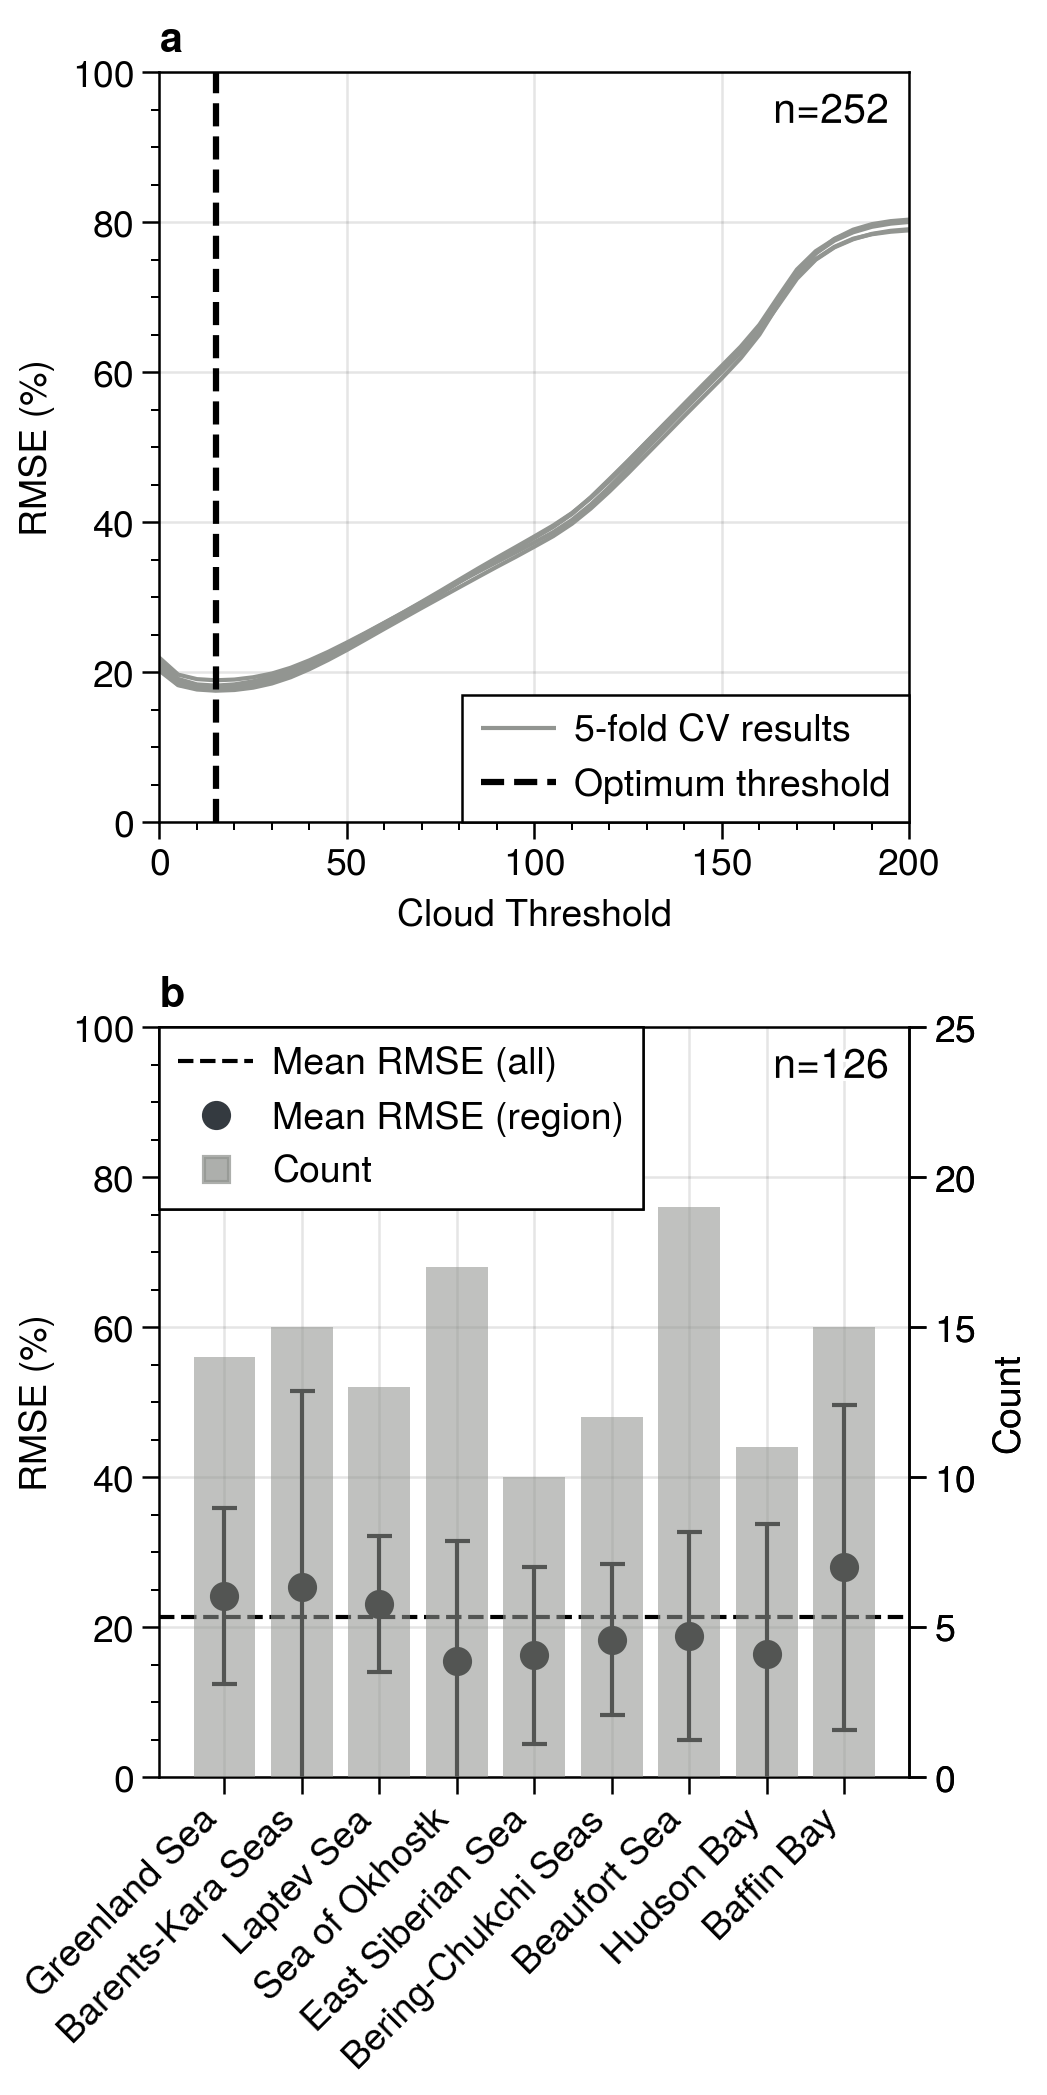
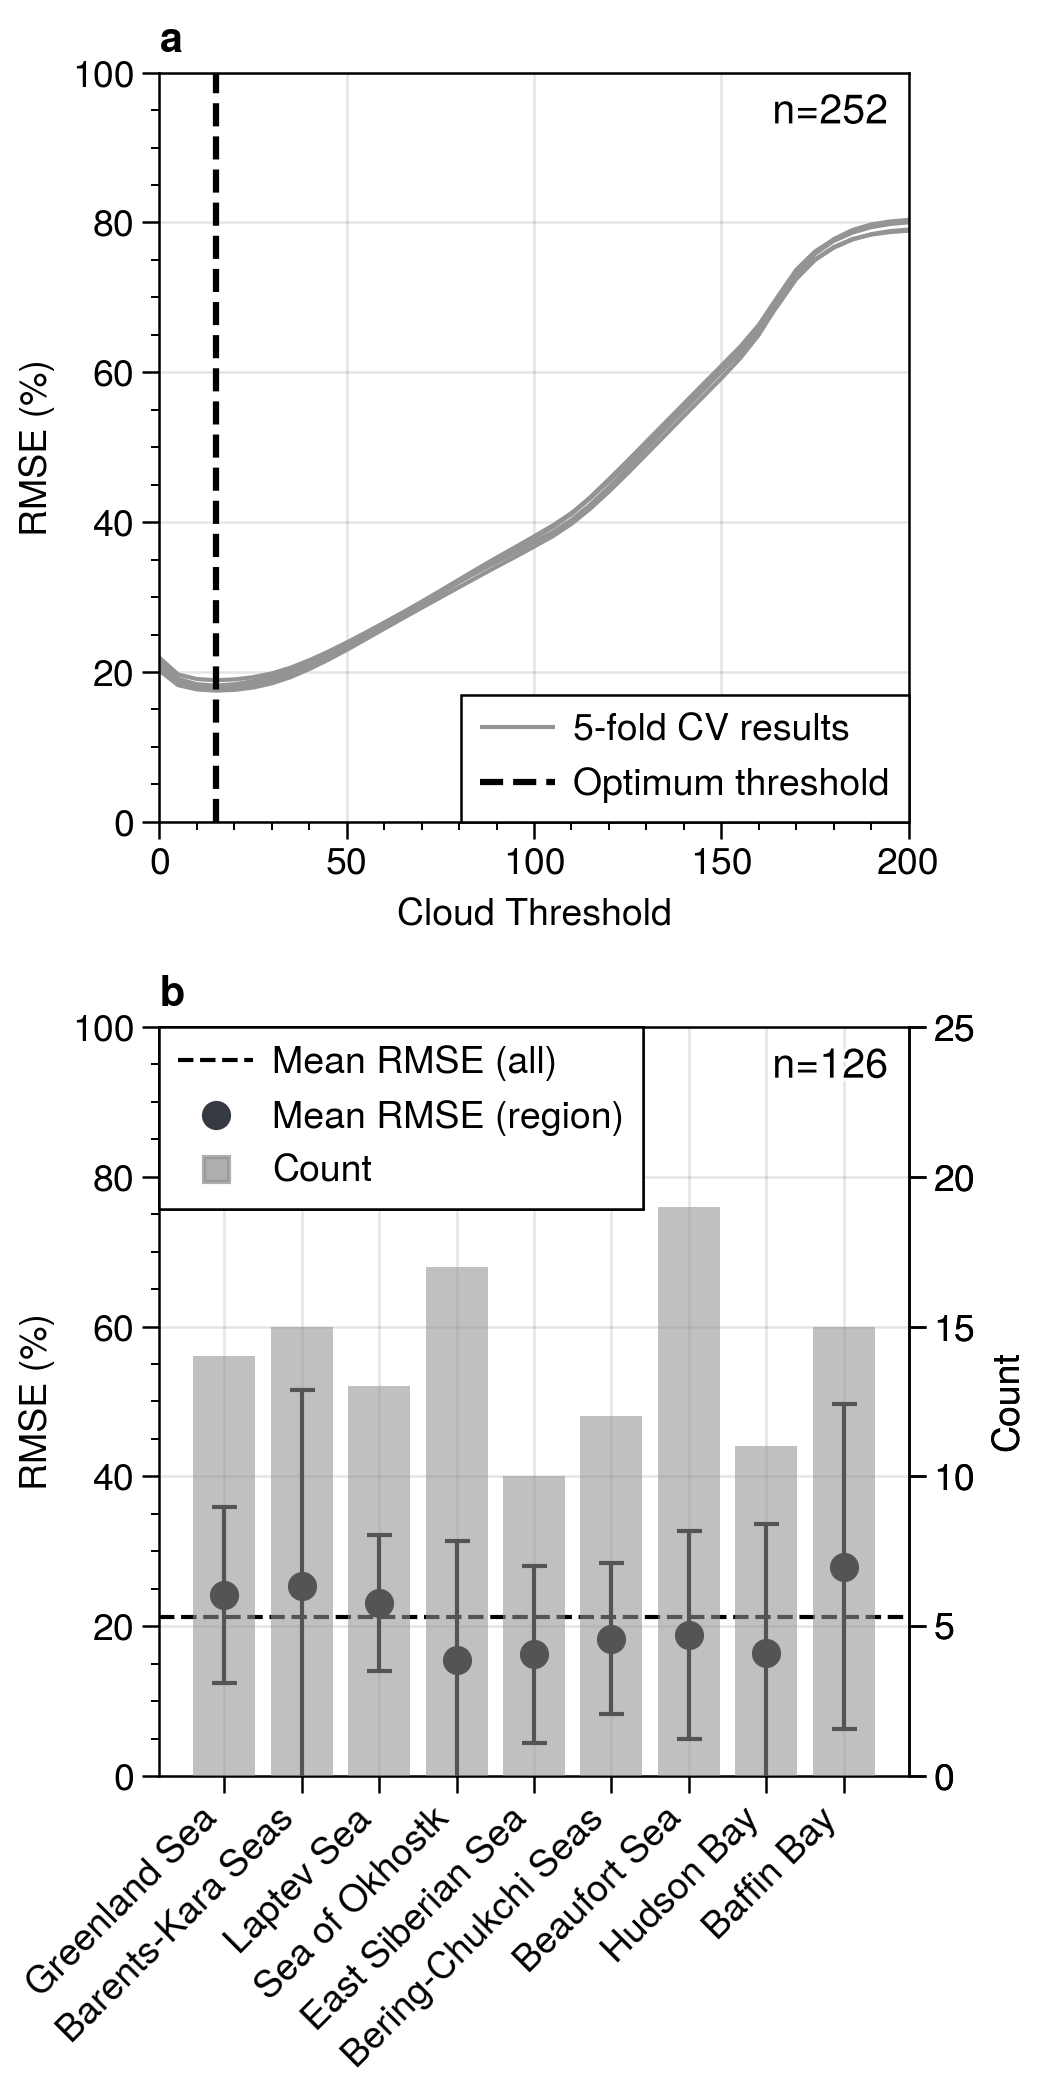
Saving MSE method for cloud mask cal/val

diff --git a/scripts/cloudmask_optimization_modis_MSE_method.py b/scripts/cloudmask_optimization_modis_MSE_method.py
@@ -1,0 +1,265 @@
+import numpy as np
+import os
+import pandas as pd
+import proplot as pplt
+import rasterio as rio
+from rasterio.plot import reshape_as_image
+from sklearn.model_selection import KFold
+from scipy.interpolate import interp1d
+
+# preliminaries
+region_order = ['greenland_sea', 'barents_kara_seas', 'laptev_sea', 'sea_of_okhostk',
+                'east_siberian_sea', 'bering_chukchi_seas', 'beaufort_sea', 'hudson_bay', 'baffin_bay']
+
+title_case = {'baffin_bay': 'Baffin Bay',
+              'barents_kara_seas': 'Barents-Kara Seas',
+              'beaufort_sea': 'Beaufort Sea',
+              'bering_chukchi_seas': 'Bering-Chukchi Seas',
+              'east_siberian_sea': 'East Siberian Sea',
+              'greenland_sea': 'Greenland Sea',
+              'hudson_bay': 'Hudson Bay',
+              'laptev_sea': 'Laptev Sea',
+              'sea_of_okhostk': 'Sea of Okhostk'}
+
+# load the list of cloud clearing evaluation cases
+dataloc = '../../ice_floe_validation_dataset/'
+df = pd.read_csv(dataloc + '/data/validation_dataset/validation_dataset.csv')
+df['case_number'] = [str(cn).zfill(3) for cn in df['case_number']]
+df.groupby('region').count()
+df['start_date'] = pd.to_datetime(df['start_date'].values)
+df.index = [cn + '_' + sat for cn, sat in zip(df.case_number, df.satellite)]
+
+# Divide into testing and training datasets
+training_idx = df.sample(frac=2/3, random_state=97234).sort_index().index
+df['training'] = False
+df.loc[training_idx, 'training'] = True
+
+def fname(case_data, imtype='labeled_floes'):
+    """Generates filenames from rows in the overview table. imtype can be 'labeled_floes', 
+    'binary_floes', 'binary_landfast', or 'binary_landmask', 'truecolor', or 'falsecolor'.
+    The imtype determines whether a 'png' or 'tiff' is returned.
+    """
+
+    cn = case_data['case_number']
+    date = pd.to_datetime(case_data['start_date']).strftime('%Y%m%d')
+    region = case_data['region']
+    sat = case_data['satellite']
+    if 'binary' in imtype:
+        return  '-'.join([cn, region, date, sat, imtype + '.png'])
+        
+    elif imtype in ['truecolor', 'falsecolor', 'cloudfraction', 'labeled_floes',]:
+        prefix = '-'.join([cn, region, '100km', date])
+        return '.'.join([prefix, sat, imtype, '250m', 'tiff'])
+
+    elif imtype in ['seaice', 'landmask',]:
+        prefix = '-'.join([cn, region, '100km', date])
+        return '.'.join([prefix, 'masie', imtype, '250m', 'tiff'])        
+
+# Load raster data and masks
+fc_dataloc = dataloc + 'data/modis/falsecolor/'
+tc_dataloc = dataloc + 'data/modis/truecolor/'
+cl_dataloc = dataloc + 'data/modis/cloudfraction/'
+
+lm_dataloc = dataloc + 'data/validation_dataset/binary_landmask/'
+lb_dataloc = dataloc + 'data/validation_dataset/binary_floes/'
+lf_dataloc = dataloc + 'data/validation_dataset/binary_landfast/'
+
+masie_ice_loc = dataloc + 'data/masie/seaice/'
+masie_land_loc = dataloc + 'data/masie/landmask/'
+
+tc_images = {}
+fc_images = {}
+cl_images = {}
+lb_images = {}
+lf_images = {}
+lm_images = {}
+mi_images = {}
+ml_images = {}
+
+missing = []
+for row, data in df.iterrows():
+    for datadir, imtype, data_dict in zip([tc_dataloc, fc_dataloc, cl_dataloc,
+                                           lb_dataloc, lf_dataloc, lm_dataloc,
+                                           masie_ice_loc, masie_land_loc],
+                                          ['truecolor', 'falsecolor', 'cloudfraction',
+                                           'binary_floes', 'binary_landfast', 'binary_landmask',
+                                           'seaice', 'landmask'],
+                                          [tc_images, fc_images, cl_images,
+                                           lb_images, lf_images, lm_images,
+                                           mi_images, ml_images]):
+        try:
+            with rio.open(datadir + fname(df.loc[row,:], imtype)) as im:
+                data_dict[row] = im.read()
+        except:
+            if imtype in ['falsecolor', 'cloudfraction', 'landmask']:
+                print('Couldn\'t read', fname(df.loc[row,:], imtype), imtype)
+            elif imtype == 'binary_floes':
+                if df.loc[row, 'visible_floes'] == 'yes':
+                    missing.append(fname(df.loc[row,:], imtype))
+            elif imtype == 'binary_landfast':
+                if df.loc[row, 'visible_landfast_ice'] == 'yes':
+                    missing.append(fname(df.loc[row,:], imtype))
+            elif imtype in ['seaice', 'landmask']: # masie images
+                missing.append(fname(df.loc[row,:], imtype))
+
+# Load the numeric cloud fraction data
+cf_images = {}
+cases = [c for c in cl_images]
+cases.sort()
+
+# Make the index of the df a unique case label
+df.index = [x.case_number + '_' + x.satellite for row, x in df.iterrows()]
+
+# Loading from file
+cf_images = {}
+for case in df.index:
+    file = fname(df.loc[case], 'binary_landmask').replace('binary_landmask.png', 'cloudfraction.csv')
+    try:
+        cf_images[case] = pd.read_csv("../data/cloudfraction_numeric/" + file, index_col=0) 
+        cf_images[case].index = cf_images[case].index.astype(int)
+        cf_images[case].columns = cf_images[case].columns.astype(int)
+    except:
+        print(case)
+
+df['cloud_fraction_modis'] = np.nan
+for case in cf_images:
+    df.loc[case, 'cloud_fraction_modis'] = np.mean(cf_images[case]/100)
+
+def get_binned_ift_est(fc, tc_threshold):
+    """Computes a 5 km average of the IFT data and bins it into the
+    same resolution as the MODIS cloud fraction data."""
+    ift_est = fc > tc_threshold
+    
+    A = ift_est.astype(int)
+    n = A.shape[0]
+    m = int(n/20)
+    
+    # reshapes to dimension (80, 20, 80, 20)
+    Amean = A.reshape([m, n//m, m, n//m]).mean(3).mean(1)
+    
+    bin_edges = np.linspace(0, 100, 17)
+    bin_centers = 0.5*(bin_edges[1:] + bin_edges[:-1])
+    
+    ift_vec = np.ravel(Amean*100)
+    ift_dig = np.digitize(ift_vec, bin_edges) - 1 # Digitize puts 0 if less than the lowest bin, so you have to subtract.
+    ift_dig[ift_dig == 16] = 15 # Put values of exactly 100 into the highest bin
+    binned_ift = np.reshape(bin_centers[ift_dig], Amean.shape)
+
+    return binned_ift
+
+def get_binned_landmask(lm, lm_threshold=0.5):
+    """Bins the land mask value and returns boolean array where True if land is greater than 50%"""
+    L = (lm == 0).astype(int)
+    n = L.shape[0]
+    m = int(n/20)
+    
+    # reshapes to dimension (80, 20, 80, 20)
+    Lmean = L.reshape([m, n//m, m, n//m]).mean(3).mean(1)
+    return Lmean > lm_threshold
+
+# Compute estimated cloud fraction for a range of threshold values
+cloud_cases = df.index
+TC = np.linspace(0, 200, 41)
+df_err = pd.DataFrame(index=cloud_cases,
+                          columns=TC, data=np.nan)
+
+# for each value, compute an estimated cloud fraction based on the fc_images
+for tc in df_err.columns:
+    for case in df_err.index:
+        if case in fc_images:
+            ift_est = get_binned_ift_est(fc_images[case][0,:,:], tc)
+            land = get_binned_landmask(lm_images[case][0,:,:], 0.5) # check whether I want this or its inverse
+            mod_est = cf_images[case].values[::20,::20]
+            difference = np.ma.masked_array(ift_est - mod_est, mask=land < 0.5)                
+            df_err.loc[case, tc] = np.sqrt(np.mean((difference**2)))
+df_training = df_err.loc[df['training']]
+df_testing = df_err.loc[~df['training']] # only actually need the index here
+
+# Test version without splitting by regions to get syntax
+fig, axs = pplt.subplots(nrows=2, share=False)
+
+x_eval = np.linspace(TC.min(), TC.max(), 201)
+results = []
+
+kf = KFold(n_splits=5, random_state=20240126, shuffle=True)
+ax = axs[0]
+for i, (train_index, test_index) in enumerate(kf.split(df_training)):
+    # first get the root mean square error as a function of TC
+    rmse = np.mean(df_training.iloc[train_index,:], axis=0)
+    
+    # then find the minimum
+    tc_optimal = pd.Series(interp1d(x=rmse.index, y=rmse.values, kind='quadratic')(x_eval), index=x_eval).idxmin()
+
+    test_cases = df_training.iloc[test_index, :].index
+    test_results = np.array([
+        np.mean(fc_images[case][0,:,:] > tc_optimal) - df.loc[case, 'cloud_fraction_manual']
+            for case in test_cases if case in fc_images])
+    tc_rmse = np.sqrt(np.mean(test_results**2))
+    results.append([tc_optimal, tc_rmse])
+    
+    ax.plot(rmse, label='', color='gray', lw=1) #label='k=' + str(i))
+
+
+ax.plot([],[], color='gray', lw=1, label='5-fold CV results')
+ax.format(ylim=(0, 100), urtitle='n=' + str(len(df_training)))
+kfold_results = pd.DataFrame(results, columns=['TC', 'RMSE']).mean(axis=0).round(2)
+tc = kfold_results['TC']
+
+ax = axs[1]
+test_results = pd.Series(np.nan, index=df_testing.index)
+for case in test_results.index:
+     ift_est = get_binned_ift_est(fc_images[case][0,:,:], tc)
+     land = get_binned_landmask(lm_images[case][0,:,:], 0.5) # check whether I want this or its inverse
+     mod_est = cf_images[case].values[::20,::20]
+     difference = np.ma.masked_array(ift_est - mod_est, mask=land < 0.5)                
+     test_results.loc[case] = np.sqrt(np.mean((difference**2)))
+
+mean_rmse = test_results.groupby(df.loc[test_results.index, 'region']).mean()
+stdev_rmse = test_results.groupby(df.loc[test_results.index, 'region']).std() 
+ax.errorbar(x=np.arange(len(mean_rmse)),
+    y=mean_rmse.values,
+    yerr = stdev_rmse.values,
+    marker='o', lw=0, zorder=2, color='k', elinewidth=1)
+ax.axhline(test_results.mean(), color='k', ls='--', lw=1)
+ax2 = ax.twinx()
+region_counts = test_results.groupby(df.loc[test_results.index, 'region']).count()
+region_counts = region_counts.loc[region_order]
+region_counts.index =  [title_case[r] for r in region_counts.index]
+
+ax2.bar(region_counts, zorder=0, color='gray', alpha=0.35
+    )
+ax2.format(ylabel='Count', ytickminor=False)
+
+ax.format(xrotation=45, ylim=(0, 100), xlabel='', ylabel='RMSE')
+ax.format(urtitle='n=' + str(len(test_results)))
+ax2.format(ylim=(0, 25))
+h = [ax.plot([],[],marker='', ls='--', color='k', lw=1),
+     ax.plot([],[],marker='o', color='gray8', lw=0),
+     ax.plot([],[],marker='s', color='gray', alpha=0.75, lw=0)]
+ax2.legend(h, ['Mean RMSE (all)', 'Mean RMSE (region)', 'Count'], loc='ul', ncols=1, alpha=1)
+
+
+# ax.axvline(110, color='k', label='Default threshold')
+axs[0].axvline(kfold_results['TC'], color='k', ls='--', label='Optimum threshold')
+axs[0].format(ylabel='RMSE (%)', xlabel='Cloud Threshold')
+axs[1].format(ylabel='RMSE (%)')
+
+axs[0].legend(loc='lr', ncols=1, alpha=1)
+fig.format(abc=True)
+
+fig.save('../figures/cloud_fraction_step1_calibration_modis.png', dpi=300)
+
+kfold_results = pd.DataFrame(results, columns=['TC', 'RMSE'])
+print('Cross validation results')
+print(kfold_results.round(2))
+print("\n")
+
+tc, RMSE = kfold_results.mean(axis=0).round(2)
+print('Training data')
+print("Cloud threshold: ", int(tc))
+print("RMSE (%): ", 100*RMSE)
+print("\n")
+# Error against the held-out data
+
+print('Comparison against test data')
+print('RMSE (%):', test_results.mean().round(2))
